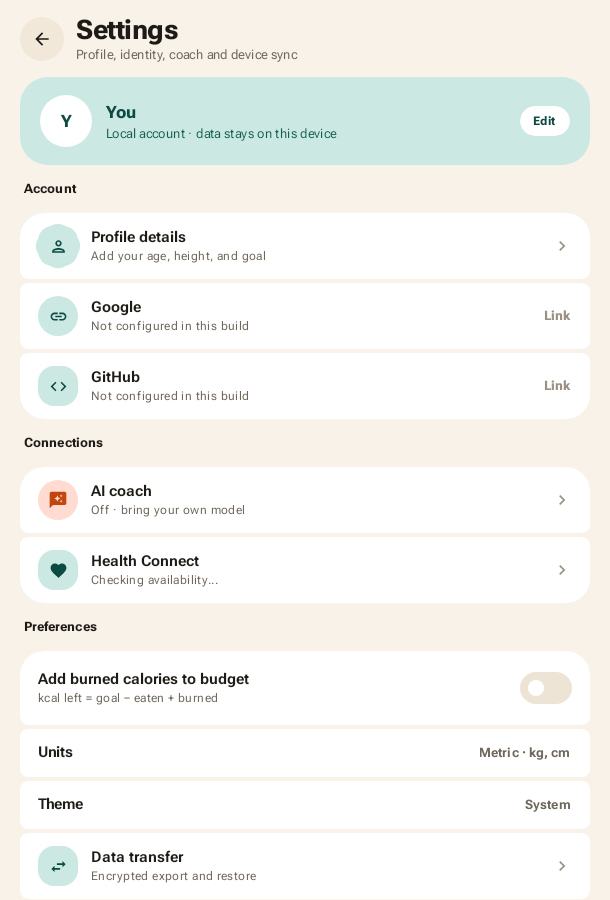
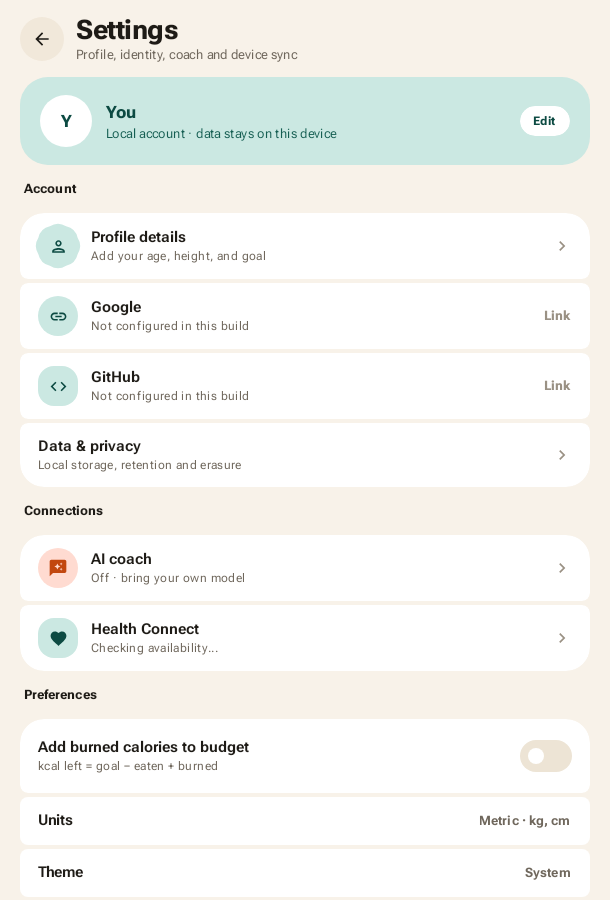
fix(ci): restore device workflow health

diff --git a/docs/testing/coverage.md b/docs/testing/coverage.md
@@ -71,10 +71,10 @@ but their production classes are incorrectly reported as entirely uncovered.
 ## Runtime budget and baseline updates
 
 The measured clean local unit report completed in 223.6 seconds for 814 tests;
-the warm report-only rerun completed in 16.6 seconds. The coverage step has a
-hard CI budget of **10 minutes**. Managed-device coverage reuses the
-already-required critical-journey execution and has the same additional
-10-minute reporting budget.
+the warm report-only rerun completed in 16.6 seconds. The unit coverage step
+has a hard CI budget of **10 minutes**. Managed-device coverage reuses the
+already-required critical-journey execution and has an additional 15-minute
+reporting budget.
 
 Do not lower a threshold or replace the baseline merely to make CI green. A
 baseline update requires a measured report from current `origin/master`, the

diff --git a/docs/testing/compose-testing.md b/docs/testing/compose-testing.md
@@ -53,15 +53,18 @@ Every UI test must name the user contract it protects. Add a new high-level
 journey only when a lower layer cannot provide equivalent confidence.
 
 `MusFitCriticalJourneyInstrumentationTest` is the managed-device layer. Its
-four orchestrated cases cover:
+six orchestrated cases cover:
 
 - a real Hilt/Room Food quick log and persistence after Activity recreation;
 - the Room-owned active-workout set/rest lifecycle and leaving/re-entering the
   Training destination;
 - Profile preference persistence plus restored visit-order back navigation;
+- unsaved Profile editor draft restoration across Activity recreation;
 - a deterministic scanner-result return on both devices, with fixed
   camera-permission denial and offline transport additionally exercised on API
-  37 (the Android 9 legacy permission dialog is intentionally not automated).
+  37 (the Android 9 legacy permission dialog is intentionally not automated);
+- 20 rapid scanner open/back/rotation cycles without retaining a camera
+  session.
 
 The instrumentation-only seeder resets each isolated test process. External
 services and camera hardware are never required. Every wait is bounded to 15

diff --git a/docs/testing/database-migrations.md b/docs/testing/database-migrations.md
@@ -23,7 +23,9 @@ the AOSP x86 image and API 37 using Google's available 16 KB-page x86_64 image:
 
 ```powershell
 . .\scripts\android\android-env.ps1
-.\gradlew.bat migrationApi28And37GroupInternalDebugAndroidTest --no-daemon --console=plain
+.\gradlew.bat migrationApi28And37GroupInternalDebugAndroidTest `
+  '-Pandroid.testInstrumentationRunnerArguments.package=com.musfit.data.local' `
+  --no-daemon --console=plain
 ```
 
 For focused work against an already running dedicated emulator: